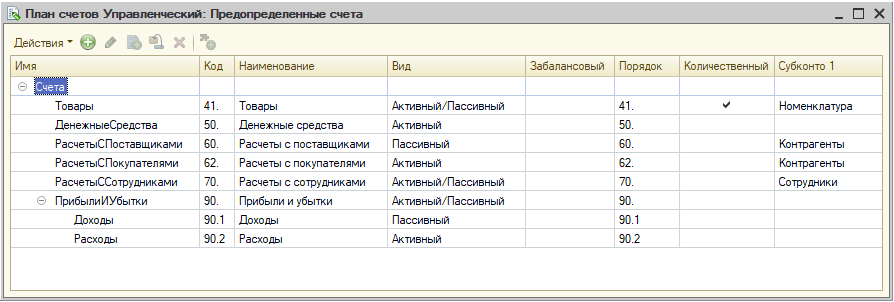
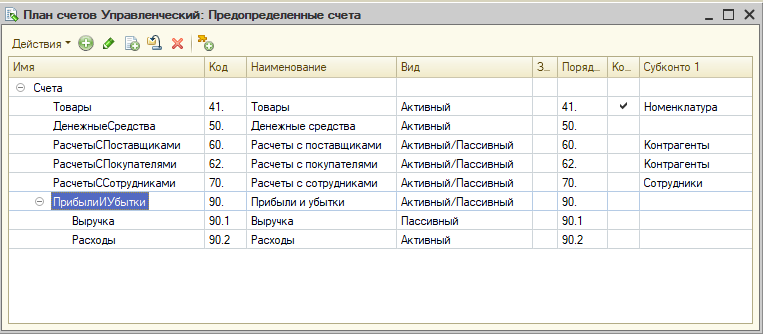
Корректировка плана счетов дипломной работы

Changed region(s): [[0.0, 0.0, 1.0, 1.0]]

diff --git a/diploma-c-howto-accounting.md b/diploma-c-howto-accounting.md
@@ -18,12 +18,12 @@
   * Добавить предопределенные счета:
     * Активный 41 **Товары** (виды субконто: Номенклатура, учет по количеству)
     * Активный 50 **ДенежныеСредства**
-    * Пассивный 60 **РасчетыСПоставщиками** (виды субконто: Контрагенты)
-    * Активный 62 **РасчетыСПокупателями** (виды субконто: Контрагенты)
+    * Активно-пассивный 60 **РасчетыСПоставщиками** (виды субконто: Контрагенты)
+    * Активно-пассивный 62 **РасчетыСПокупателями** (виды субконто: Контрагенты)
     * Активно-пассивный 70 **РасчетыССотрудниками** (виды субконто: Сотрудники)
     * Активно-пассивный 90 **ПрибылиИУбытки** с субсчетами
-      * 90.1 **Доходы**
-      * 90.2 **Расходы**
+      * Пассивный 90.1 **Выручка**
+      * Активный 90.2 **Расходы**
   * В итоге план счетов должен выглядеть так:
 ![План счетов Управленческий](diploma-c-chart-of-accounts.png)
 
@@ -44,7 +44,7 @@
   * Для строк с номенклатурой вида Услуга формировать движение Дт **Расходы** - Кт **РасчетыСПоставщиками** с заполнением субконто Контрагенты на сумму строки.
     
 5. Доработать обработчик проведения документа **РеализацияТоваровИУслуг**:
-  * Формировать движение Дт **РасчетыСПокупателями** с заполнением субконто Контрагенты - Кт **Доходы** на общую сумму продажи (по всем строкам).
+  * Формировать движение Дт **РасчетыСПокупателями** с заполнением субконто Контрагенты - Кт **Выручка** на общую сумму продажи (по всем строкам).
   * Для строк с номенклатурой вида Товар формировать движение Дт **Расходы** - Кт **Товары** с заполнением субконто Номенклатура на сумму себестоимости списанного товара. Себестоимость должна рассчитываться по данным регистра бухгалтерии, а не по данным регистра накопления **Товары**. Данные регистра бухгалтерии нужно получать запросом к виртуальной таблице **РегистрБухгалтерии.Управленческий.Остатки** на МоментВремени() проводимого документа. При списании необходимо проверять, что количества товара достаточно для списания.
 
 6. Доработать документ **ПоступлениеДенежныхСредств**:

diff --git a/diploma-c-reqs.md b/diploma-c-reqs.md
@@ -28,12 +28,12 @@
   * Содержит предопределенные счета:
     * Активный 41 **Товары** (виды субконто: Номенклатура, учет по количеству)
     * Активный 50 **ДенежныеСредства**
-    * Пассивный 60 **РасчетыСПоставщиками** (виды субконто: Контрагенты)
-    * Активный 62 **РасчетыСПокупателями** (виды субконто: Контрагенты)
+    * Активно-пассивный 60 **РасчетыСПоставщиками** (виды субконто: Контрагенты)
+    * Активно-пассивный 62 **РасчетыСПокупателями** (виды субконто: Контрагенты)
     * Активно-пассивный 70 **РасчетыССотрудниками** (виды субконто: Сотрудники)
     * Активно-пассивный 90 **ПрибылиИУбытки** с субсчетами
-      * 90.1 **Доходы**
-      * 90.2 **Расходы**
+      * Пассивный 90.1 **Выручка**
+      * Активный 90.2 **Расходы**
       
 * Отчетом **ОборотноСальдоваяВедомость**, который:
   * Построен на СКД
@@ -44,7 +44,7 @@
     * Для товаров - Дт **Товары** с заполнением субконто Номенклатура - Кт **РасчетыСПоставщиками** с заполнением субконто Контрагенты на сумму закупки.
     * Для услуг - Дт **Расходы** - Кт **РасчетыСПоставщиками** с заполнением субконто Контрагенты на сумму закупки.
   * Документ **РеализацияТоваровИУслуг**:
-    * Для всех строк - Дт **РасчетыСПокупателями** с заполнением субконто Контрагенты - Кт **Доходы** на сумму продажи.
+    * Для всех строк - Дт **РасчетыСПокупателями** с заполнением субконто Контрагенты - Кт **Выручка** на сумму продажи.
     * Для товаров - Дт **Расходы** - Кт **Товары** с заполнением субконто Номенклатура на сумму себестоимости списанного товара. Себестоимость должна рассчитываться по данным регистра бухгалтерии, а не по данным регистра накопления **Товары**. Недопустимо списание товара в минус.
   * Документ **ПоступлениеДенежныхСредств** (после расширения типа реквизита **Плательщик** типом **СправочникСсылка.Сотрудники**):
     * Для контрагентов - Дт **ДенежныеСредства** - Кт **РасчетыСПокупателями** с заполнением субконто **Контрагенты** на сумму платежа.
